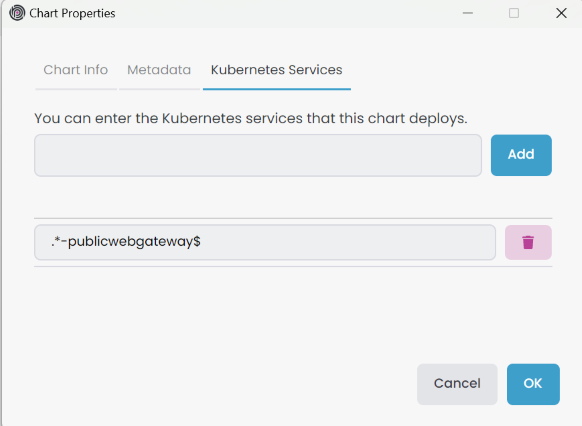
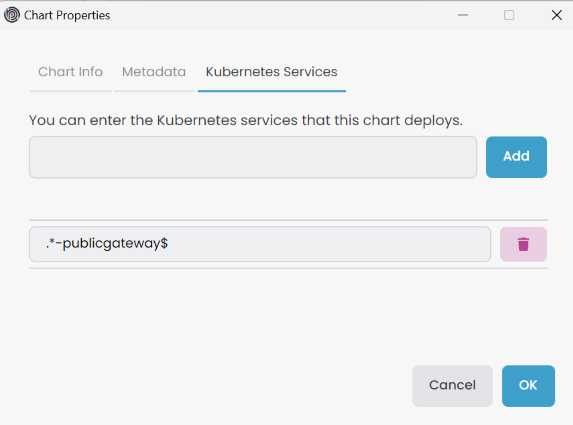
Microservice: adding-new-api-gateways kubernetes sample name changed

diff --git a/docs/en/solution-templates/microservice/adding-new-api-gateways.md b/docs/en/solution-templates/microservice/adding-new-api-gateways.md
@@ -81,7 +81,7 @@ The new gateway application is use the [YARP](https://microsoft.github.io/revers
 
 ### Configuring the OpenId Options
 
-We should configure the OpenId options by modifying the `OpenIddictDataSeeder` in the `Identity` service. Below is an example of the `OpenIddictDataSeeder` options for the `PublicWeb` gateway.
+We should configure the OpenId options by modifying the `OpenIddictDataSeeder` in the `Identity` service. Below is an example of the `OpenIddictDataSeeder` options for the `PublicGateway` application.
 
 Add the created gateway URL to the *redirectUris* parameter in the `CreateSwaggerClientAsync` method in the `OpenIddictDataSeeder` class.
 
@@ -153,44 +153,44 @@ We should add the new gateway to the solution runner [profile](../../studio/runn
 
 If you want to deploy the new gateway to Kubernetes, you should create a Helm chart for the new application.
 
-First, add the new gateway to the `build-all-images.ps1` script in the `etc/helm` folder. You can copy the configurations from the existing applications and modify them according to the new application. Below is an example of the `build-all-images.ps1` script for the `PublicWebGateway` application.
+First, add the new gateway to the `build-all-images.ps1` script in the `etc/helm` folder. You can copy the configurations from the existing applications and modify them according to the new application. Below is an example of the `build-all-images.ps1` script for the `PublicGateway` application.
 
 ```powershell
-./build-image.ps1 -ProjectPath "../../gateways/public-web/Acme.Bookstore.PublicWebGateway/Acme.Bookstore.PublicWebGateway.csproj" -ImageName bookstore/publicwebgateway
+./build-image.ps1 -ProjectPath "../../gateways/public/Acme.Bookstore.PublicGateway/Acme.Bookstore.PublicGateway.csproj" -ImageName bookstore/publicgateway
 ```
 
-Since we want to expose our gateway outside the cluster, we should add the host URL to the `values.projectname-local.yaml` file in the `etc/helm/projectname` folder. Below is an example of the `values.bookstore-local.yaml` file for the `PublicWebGateway` application.
+Since we want to expose our gateway outside the cluster, we should add the host URL to the `values.projectname-local.yaml` file in the `etc/helm/projectname` folder. Below is an example of the `values.bookstore-local.yaml` file for the `PublicGateway` application.
 
 ```yaml
 global:
   ...
   hosts:
     ...
-    publicwebgateway: "[RELEASE_NAME]-publicwebgateway"
+    publicgateway: "[RELEASE_NAME]-publicgateway"
 ```
 
-For development purposes, we should also create TLS certificates for the new gateway. You can edit the `create-tls-certificate.ps1` script in the `etc/helm` folder to generate TLS certificates for the new gateway. Below is an example of the `create-tls-certificate.ps1` script for the `PublicWebGateway` application.
+For development purposes, we should also create TLS certificates for the new gateway. You can edit the `create-tls-certificate.ps1` script in the `etc/helm` folder to generate TLS certificates for the new gateway. Below is an example of the `create-tls-certificate.ps1` script for the `PublicGateway` application.
 
 ```powershell
-mkcert --cert-file bookstore-local.pem --key-file bookstore-local-key.pem "bookstore-local" ... "bookstore-local-publicwebgateway"
+mkcert --cert-file bookstore-local.pem --key-file bookstore-local-key.pem "bookstore-local" ... "bookstore-local-publicgateway"
 kubectl create namespace bookstore-local
 kubectl create secret tls -n bookstore-local bookstore-local-tls --cert=./bookstore-local.pem --key=./bookstore-local-key.pem
 ```
 
-Lastly, we should define the new application in the *_helpers.tpl* file in the `etc/helm/projectname/templates` folder. You can copy the configurations from the existing applications and modify them according to the new application. Below is an example of the *_helpers.tpl* file for the `PublicWebGateway` application.
+Lastly, we should define the new application in the *_helpers.tpl* file in the `etc/helm/projectname/templates` folder. You can copy the configurations from the existing applications and modify them according to the new application. Below is an example of the *_helpers.tpl* file for the `PublicGateway` application.
 
 ```yaml
-{{- define "bookstore.hosts.publicwebgateway" -}}
-{{- print "https://" (.Values.global.hosts.publicwebgateway | replace "[RELEASE_NAME]" .Release.Name) -}}
+{{- define "bookstore.hosts.publicgateway" -}}
+{{- print "https://" (.Values.global.hosts.publicgateway | replace "[RELEASE_NAME]" .Release.Name) -}}
 {{- end -}}
 ```
 
-Afterwards, we need to create a new Helm chart for the new gateway. You can copy the configurations from the existing applications and modify them according to the new gateway. Below is an example of the `publicwebgateway` Helm chart for the `PublicWebGateway` application.
+Afterwards, we need to create a new Helm chart for the new gateway. You can copy the configurations from the existing applications and modify them according to the new gateway. Below is an example of the `publicgateway` Helm chart for the `PublicGateway` application.
 
 ```yaml
 # values.yaml
 image:
-  repository: "bookstore/publicwebgateway"
+  repository: "bookstore/publicgateway"
   tag: "latest"
   pullPolicy: "IfNotPresent"
 swagger:
@@ -198,13 +198,13 @@ swagger:
 
 # Chart.yaml
 apiVersion: v2
-name: publicwebgateway
+name: publicgateway
 appVersion: "1.0"
-description: Bookstore Public Web API Gateway
+description: Bookstore Public API Gateway
 version: 1.0.0
 type: application
 
-# publicwebapigateway.yaml
+# publicapigateway.yaml
 apiVersion: apps/v1
 kind: Deployment
 metadata:
@@ -243,7 +243,7 @@ spec:
         - name: "ReverseProxy__Clusters__ProductService__Destinations__ProductService__Address"
           value: "http://{{ .Release.Name }}-productservice"
 
-# publicwebapigateway-service.yaml
+# publicapigateway-service.yaml
 apiVersion: v1
 kind: Service
 metadata:
@@ -257,7 +257,7 @@ spec:
   selector:
     app: "{{ .Release.Name }}-{{ .Chart.Name }}"
 
-# publicwebapigateway-ingress.yaml
+# publicapigateway-ingress.yaml
 apiVersion: networking.k8s.io/v1
 kind: Ingress
 metadata:
@@ -272,10 +272,10 @@ spec:
   ingressClassName: "nginx"
   tls:
   - hosts:
-      - "{{ (include "bookstore.hosts.publicwebgateway" .) | trimPrefix "https://" }}"
+      - "{{ (include "bookstore.hosts.publicgateway" .) | trimPrefix "https://" }}"
     secretName: "{{ .Values.global.tlsSecret }}"
   rules:
-  - host: "{{ (include "bookstore.hosts.publicwebgateway" .) | trimPrefix "https://" }}"
+  - host: "{{ (include "bookstore.hosts.publicgateway" .) | trimPrefix "https://" }}"
     http:
       paths:
       - path: /
@@ -304,12 +304,11 @@ Last but not least, we need to configure the helm chart environments for identit
 ```yaml
 # identity.yaml 
 # Add this line to the "env:" section
-# OpenIddict:Applications:PublicWebGateway:RootUrl
-- name: "OpenIddict__Applications__PublicWebGateway__RootUrl"
-  value: "{{ include "bookstore.hosts.publicwebgateway" . }}"
+- name: "OpenIddict__Applications__PublicGateway__RootUrl"
+  value: "{{ include "bookstore.hosts.publicgateway" . }}"
 
 # authserver.yaml
 # Concat the following lines for "App__CorsOrigins" section
 - name: "App__CorsOrigins"
-  value: "...,http://{{ .Release.Name }}-administration,{{ include "bookstore.hosts.publicwebgateway" . }}"
+  value: "...,http://{{ .Release.Name }}-administration,{{ include "bookstore.hosts.publicgateway" . }}"
 ```
